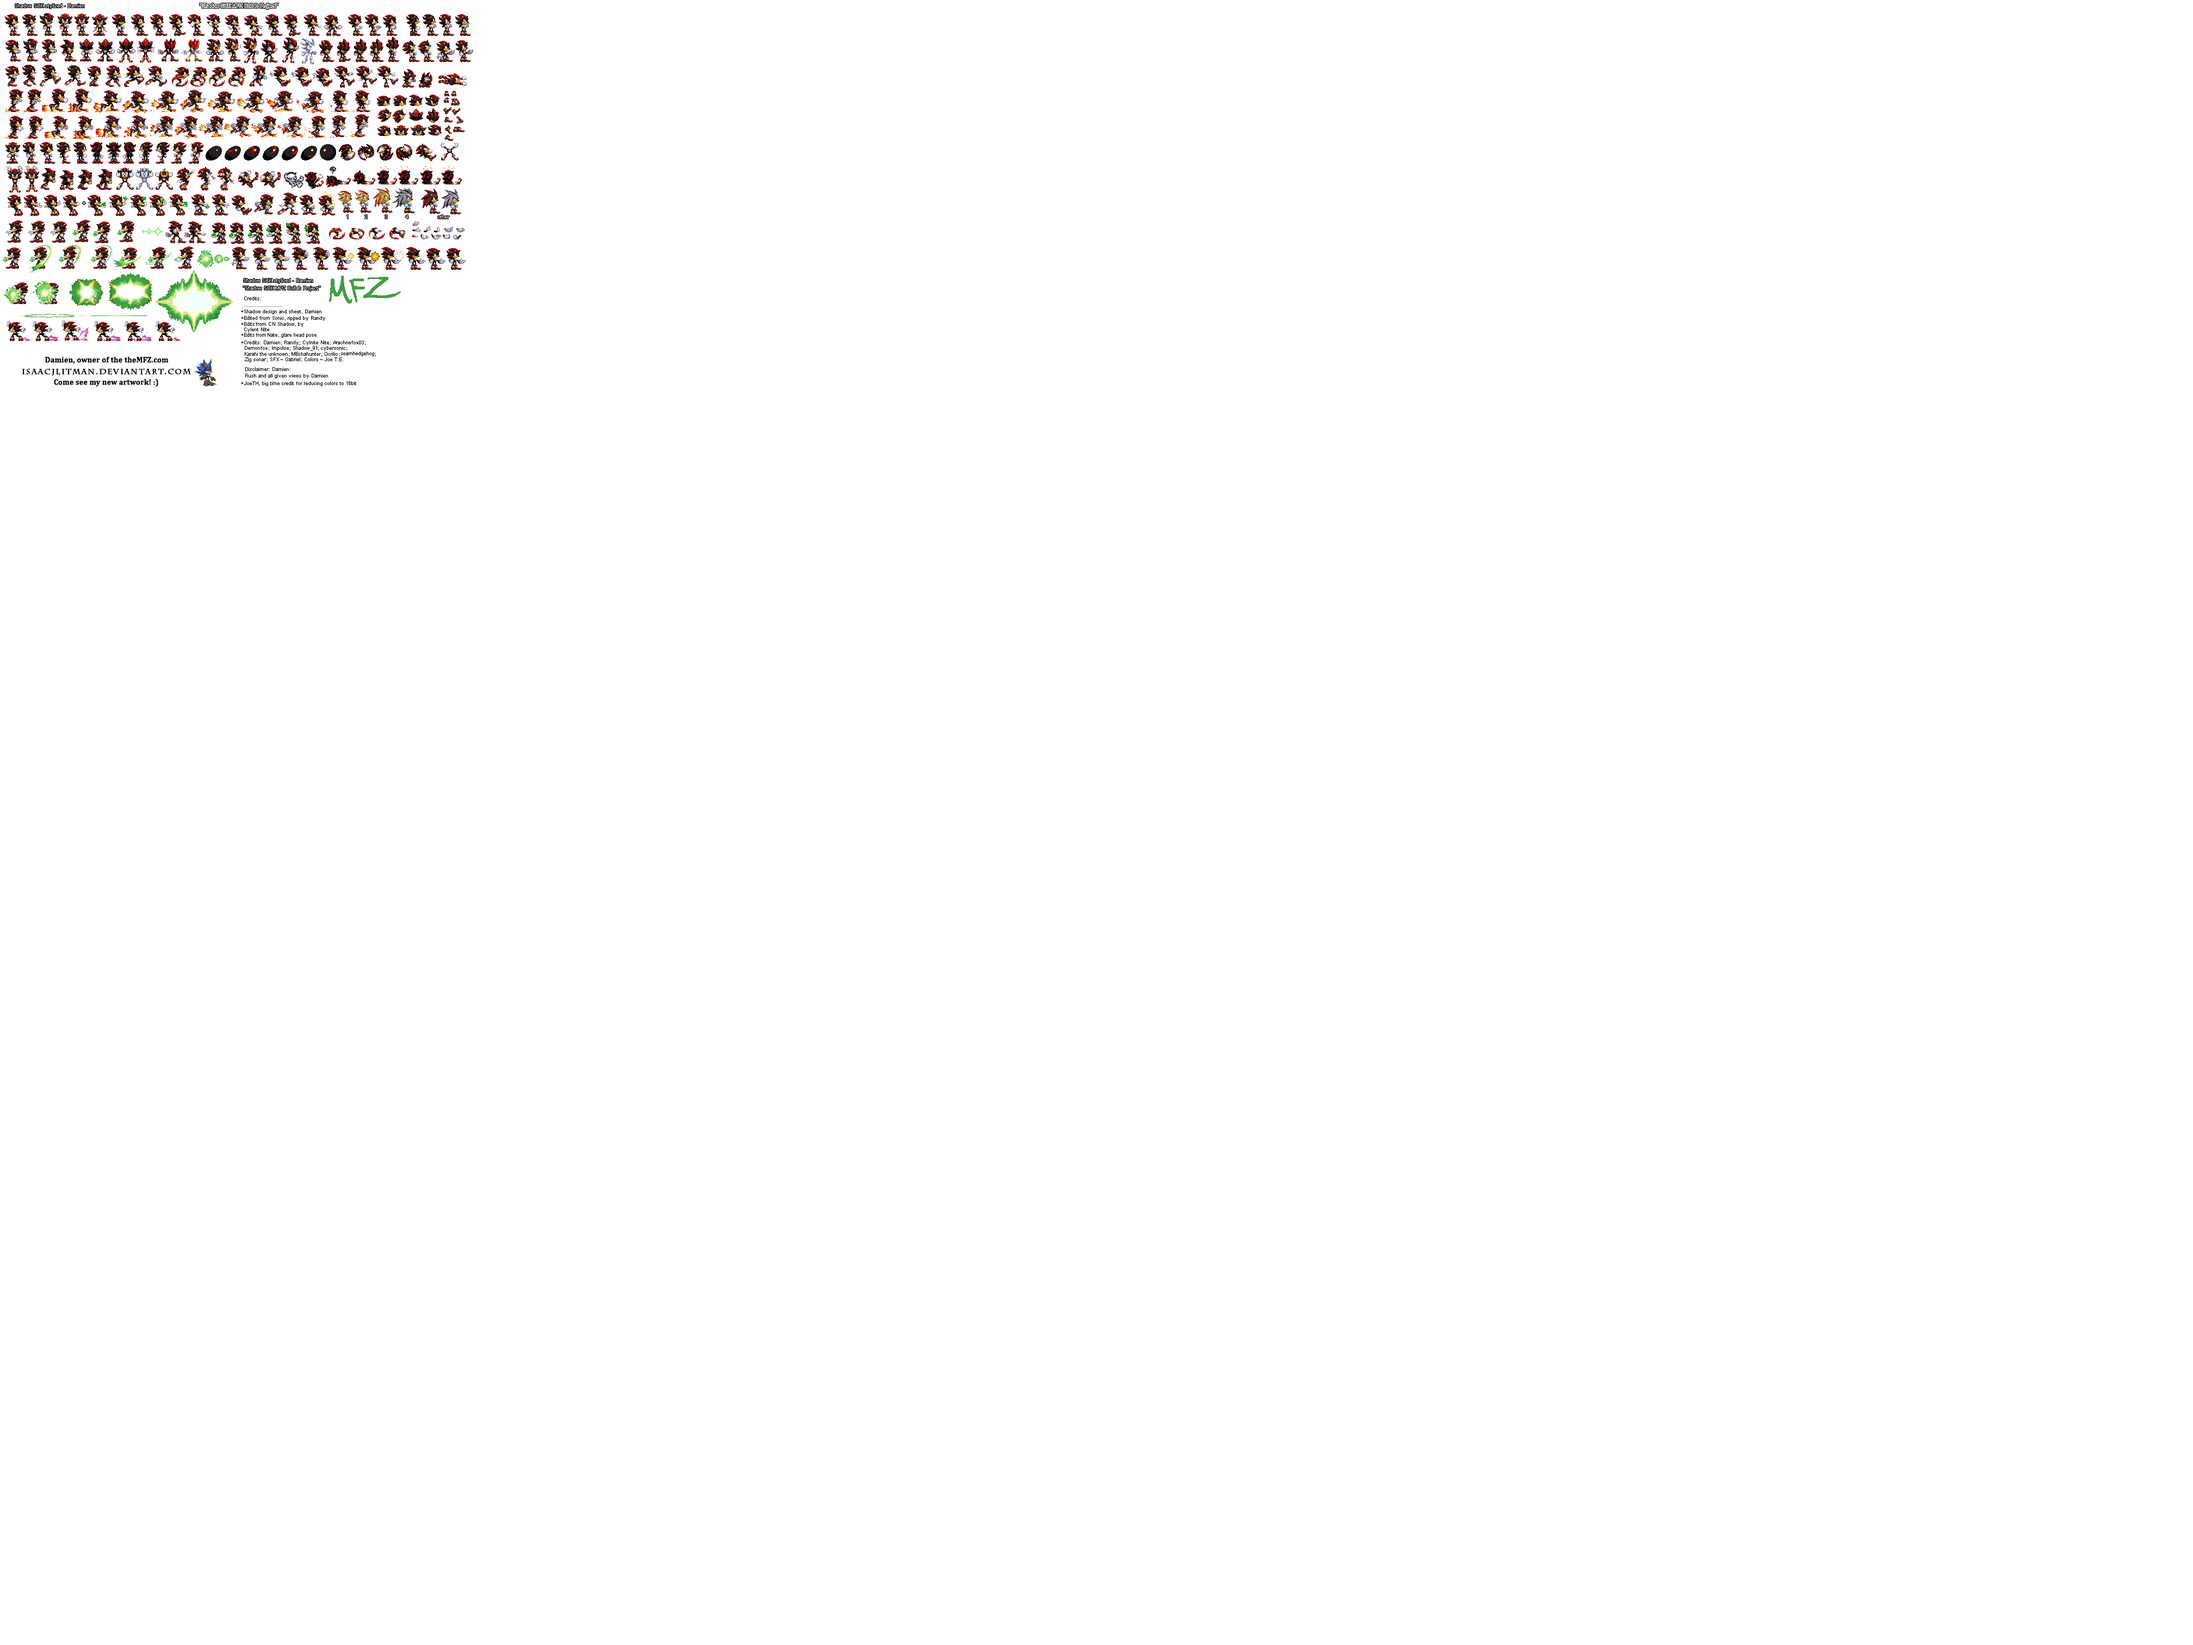
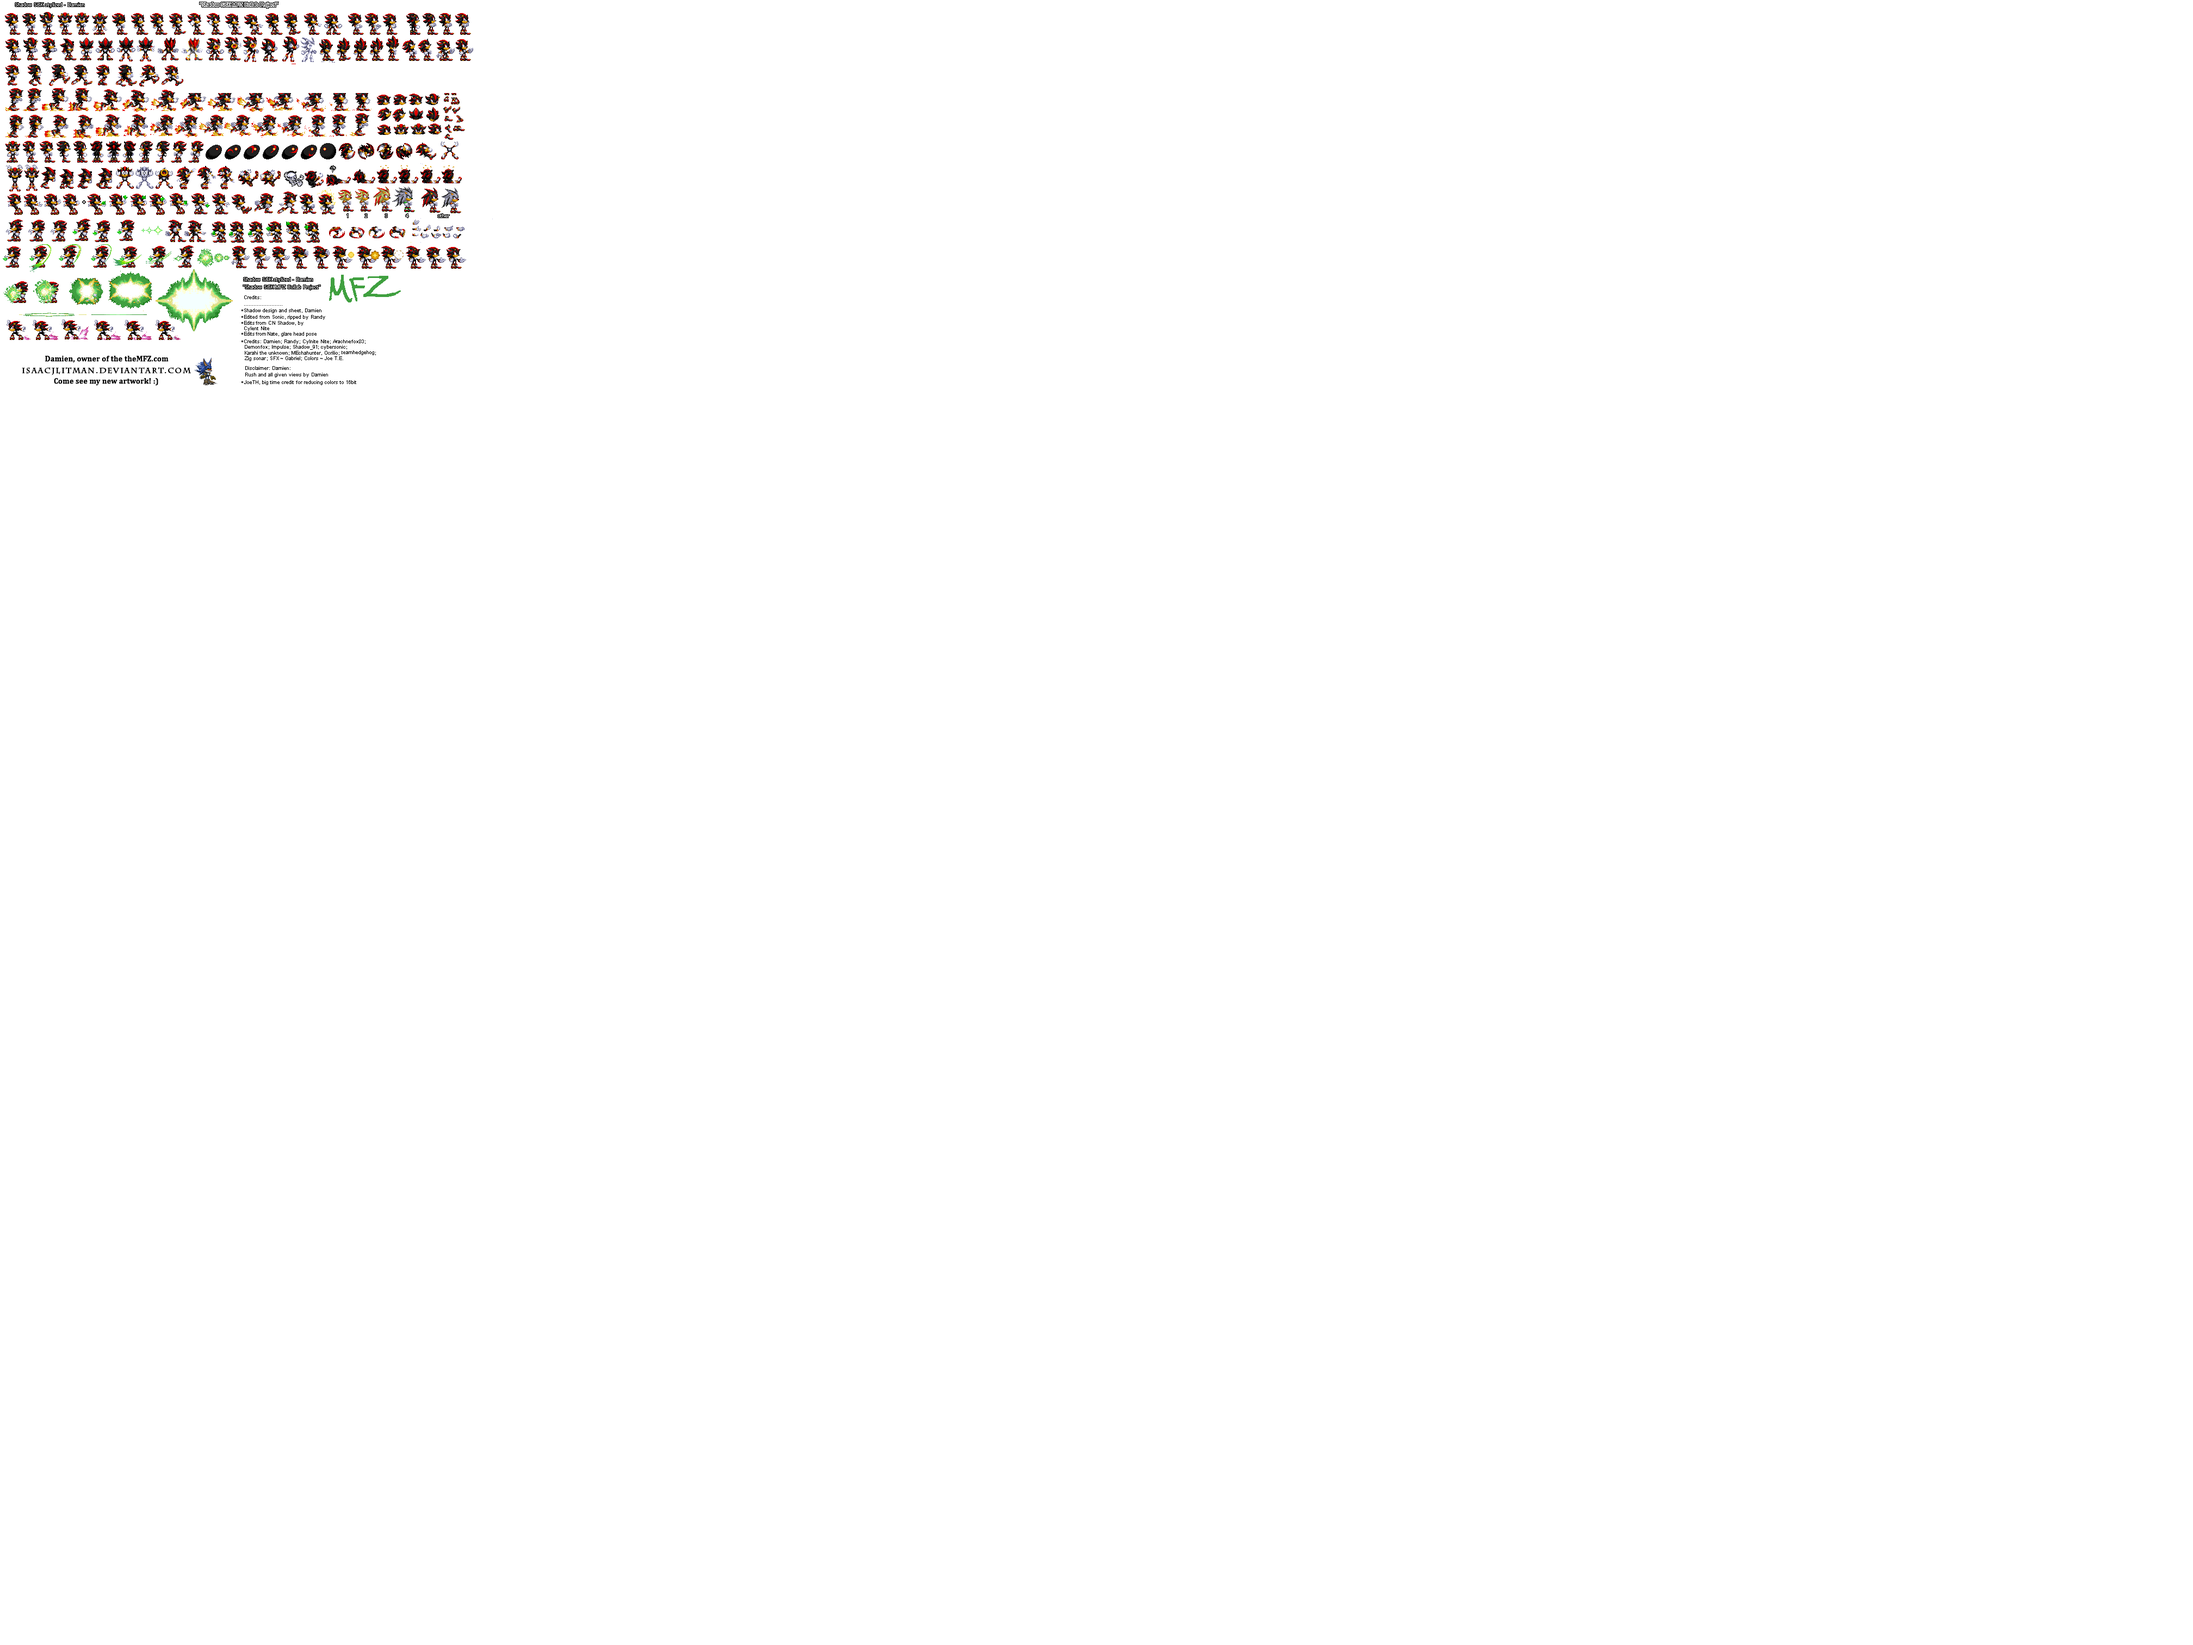
코드 수정, 캐릭터 스프라이트 수정
배경음 출력 선택 기능 추가
shadow left, right sprite 위치 조정, 도트 수정
shadow 점프, 이동 애니메이션 구현

Changed region(s): [[0.0, 0.0, 0.2188, 0.2487]]

diff --git a/stage_state.py b/stage_state.py
@@ -59,8 +59,10 @@ class Sonic:
 class Tales:
     def __init__(self):
         self.hp = 100
-        self.speed = 3
-        self.frame = 0
+        self.speed = 4
+        self.idle_frame = 0
+        self.move_frame = 0
+        self.jump_frame = 0
         self.attack = True
         self.damage = 6
         self.time = 0
@@ -76,12 +78,14 @@ class Tales:
     def update(self):
         self.time += 1
         if self.time % 5 == 0:
-            self.frame = (self.frame + 1) % 8
+            self.idle_frame = (self.idle_frame + 1) % 8
+            self.move_frame = (self.move_frame + 1) % 8
+            self.jump_frame = (self.jump_frame + 1) % 8
         self.x += self.dir_x * self.speed
         if self.jump == True:
             if self.radian <= pi * 3 / 2:
                 self.radian += (pi / 12)
-                self.y += sin(self.radian) * 6
+                self.y += sin(self.radian) * 10
             else:
                 self.y = 130
                 self.jump = False
@@ -94,19 +98,19 @@ class Tales:
     def draw(self):
         if self.dir_x == 1:
             if self.jump == True:
-                self.image_left.clip_draw(self.frame * 50 + 15, 2740, 40, 45, self.x, self.y)
+                self.image_left.clip_draw(self.jump_frame * 50 + 15, 2740, 40, 45, self.x, self.y)
             else:
-                self.image_left.clip_draw(self.frame * 55 + 10, 2980, 50, 40, self.x, self.y)
+                self.image_left.clip_draw(self.move_frame * 55 + 10, 2980, 50, 40, self.x, self.y)
         if self.dir_x == -1:
             if self.jump == True:
-                self.image_right.clip_draw(4032 - 15 - 40 - self.frame * 50, 2740, 40, 45, self.x, self.y)
+                self.image_right.clip_draw(4032 - 15 - 40 - self.jump_frame * 50, 2740, 40, 45, self.x, self.y)
             else:
-                self.image_right.clip_draw(3972 - self.frame * 55, 2980, 50, 40, self.x, self.y)
+                self.image_right.clip_draw(3972 - self.move_frame * 55, 2980, 50, 40, self.x, self.y)
         if self.dir_x == 0:
-            if self.right == 0:
-                self.image_right.clip_draw(4032 - 20 - 50 - self.frame * 52, 2650, 50, 40, self.x, self.y)
-            elif self.right == 1:
-                self.image_left.clip_draw(self.frame * 52 + 20, 2650, 50, 40, self.x, self.y)
+            if self.right == 1:
+                self.image_left.clip_draw(self.idle_frame * 52 + 20, 2650, 50, 40, self.x, self.y)
+            elif self.right == 0:
+                self.image_right.clip_draw(4032 - 20 - 50 - self.idle_frame * 52, 2650, 50, 40, self.x, self.y)
 
 class Knuckles:
     def __init__(self):
@@ -275,8 +279,10 @@ class Rouge:
 class Shadow:
     def __init__(self):
         self.hp = 100
-        self.speed = 3
-        self.frame = 0
+        self.speed = 4
+        self.idle_frame = 0
+        self.move_frame = 0
+        self.jump_frame = 0
         self.attack = True
         self.damage = 6
         self.time = 0
@@ -292,12 +298,16 @@ class Shadow:
     def update(self):
         self.time += 1
         if self.time % 5 == 0:
-            self.frame = (self.frame + 1) % 4
+            self.move_frame = (self.move_frame + 1) % 8
+            self.jump_frame = (self.jump_frame + 1) % 4
+        if self.time % 10 == 0:
+            self.idle_frame = (self.idle_frame + 1) % 4
+
         self.x += self.dir_x * self.speed
         if self.jump == True:
             if self.radian <= pi * 3 / 2:
-                self.radian += (pi / 8)
-                self.y += sin(self.radian) * 6
+                self.radian += (pi / 12)
+                self.y += sin(self.radian) * 10
             else:
                 self.y = 130
                 self.jump = False
@@ -308,10 +318,21 @@ class Shadow:
             self.x = 0
 
     def draw(self):
-        if self.dir_x == 1 or self.right == 1:
-            self.image_left.clip_draw(self.frame * 35 + 202, 2960, 37, 40, self.x, self.y)
-        if self.dir_x == -1 or self.right == 0:
-            self.image_right.clip_draw(4032 - 202 - 37 - self.frame * 35, 2960, 37, 40, self.x, self.y)
+        if self.dir_x == 1:
+            if self.jump == True:
+                self.image_left.clip_draw(self.jump_frame * 35 + 620, 2720, 38, 40, self.x, self.y)
+            else:
+                self.image_left.clip_draw(self.move_frame * 41 + 6, 2864, 42, 40, self.x, self.y)
+        if self.dir_x == -1:
+            if self.jump == True:
+                self.image_right.clip_draw(4032 - 620 - 35 - self.jump_frame * 35, 2720, 38, 40, self.x, self.y)
+            else:
+                self.image_right.clip_draw(4032 - 6 - 41 - self.move_frame * 41, 2864, 42, 40, self.x, self.y)
+        if self.dir_x == 0:
+            if self.right == 1:
+                self.image_left.clip_draw(self.idle_frame * 35 + 202, 2958, 37, 40, self.x, self.y)
+            elif self.right == 0:
+                self.image_right.clip_draw(4032 - 202 - 37 - self.idle_frame * 35, 2958, 37, 40, self.x, self.y)
 
 ##############################################################################################################
 
@@ -576,6 +597,35 @@ class Palm:
 
 ##############################################################################################################
 
+def RandomCharacter():
+    global player_character
+    if choice(character) == 'Sonic':
+        player_character = Sonic()
+    elif choice(character) == 'Tales':
+        player_character = Tales()
+    elif choice(character) == 'Knuckles':
+        player_character = Knuckles()
+    elif choice(character) == 'AmyRose':
+        player_character = AmyRose()
+    elif choice(character) == 'Tikal':
+        player_character = Tikal()
+    elif choice(character) == 'Rouge':
+        player_character = Rouge()
+    elif choice(character) == 'Shadow':
+        player_character = Shadow()
+    elif choice(character) == 'Silver':
+        player_character = Silver()
+    elif choice(character) == 'Blaze':
+        player_character = Blaze()
+    elif choice(character) == 'Espio':
+        player_character = Espio()
+    elif choice(character) == 'Mighty':
+        player_character = Mighty()
+    elif choice(character) == 'Super Sonic':
+        player_character = SuperSonic()
+    elif choice(character) == 'Super Shadow':
+        player_character = SuperShadow()
+
 def handle_events():
     global player_character, stage, stage_count, sound, sound_on
     events = get_events()
@@ -597,35 +647,13 @@ def handle_events():
                 player_character.right = 1
                 player_character.dir_x = 1
             elif event.key == SDLK_1:
-                if choice(character) == 'Sonic':
-                    player_character = Sonic()
-                elif choice(character) == 'Tales':
-                    player_character = Tales()
-                elif choice(character) == 'Knuckles':
-                    player_character = Knuckles()
-                elif choice(character) == 'AmyRose':
-                    player_character = AmyRose()
-                elif choice(character) == 'Tikal':
-                    player_character = Tikal()
-                elif choice(character) == 'Rouge':
-                    player_character = Rouge()
-                elif choice(character) == 'Shadow':
-                    player_character = Shadow()
-                elif choice(character) == 'Silver':
-                    player_character = Silver()
-                elif choice(character) == 'Blaze':
-                    player_character = Blaze()
-                elif choice(character) == 'Espio':
-                    player_character = Espio()
-                elif choice(character) == 'Mighty':
-                    player_character = Mighty()
-                elif choice(character) == 'Super Sonic':
-                    player_character = SuperSonic()
-                elif choice(character) == 'Super Shadow':
-                    player_character = SuperShadow()
+                RandomCharacter()
             elif event.key == SDLK_F8:
                 sound_on = ~sound_on
-                sound.stop()
+                if(sound_on == True):
+                    sound.repeat_play()
+                else:
+                    sound.stop()
         elif event.type == SDL_KEYUP:
             if event.key == SDLK_UP:
                 pass
@@ -644,12 +672,11 @@ def handle_events():
 
 def enter():
     global player_character, stage, stage_count, sound, sound_on
-    player_character = Tales()
+    player_character = Shadow()
     stage = Palm()
-    if(sound_on == True):
-        sound = load_music('sound/Tropical.mp3')
-        sound.set_volume(20)
-        sound.repeat_play()
+    sound = load_music('sound/Tropical.mp3')
+    sound.set_volume(20)
+    sound.repeat_play()
     stage_count = 0
 
 def exit():
